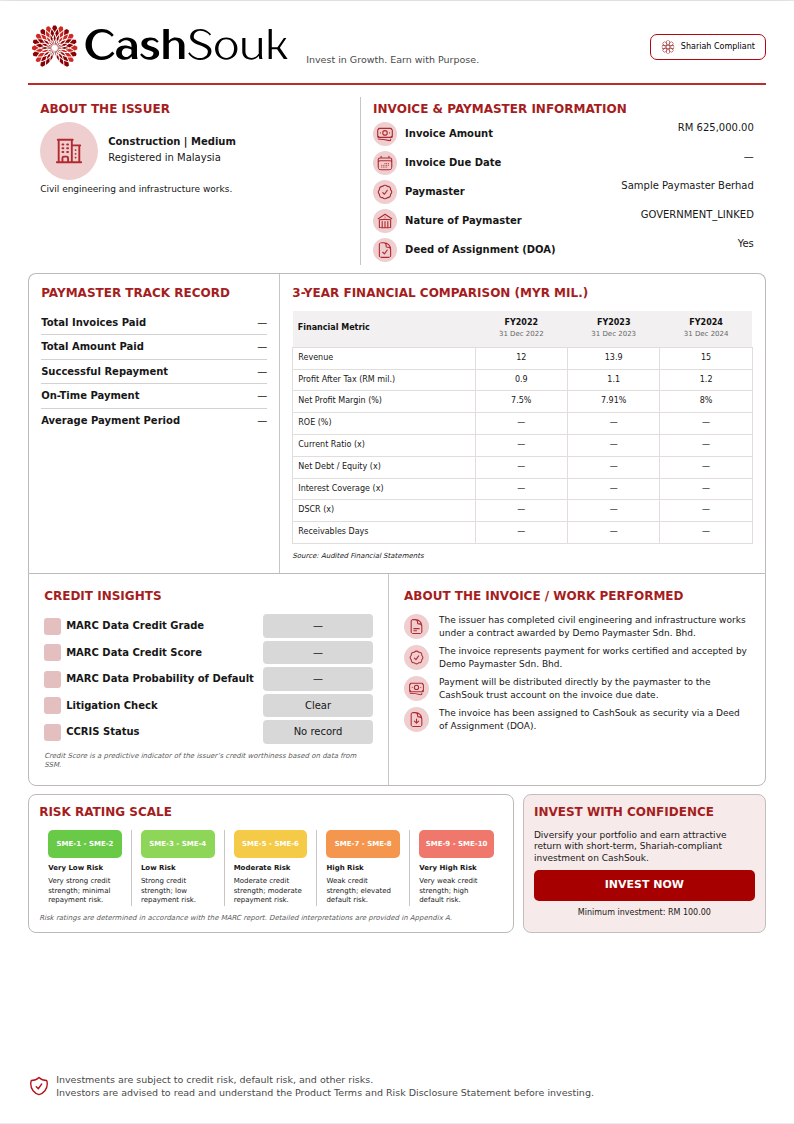
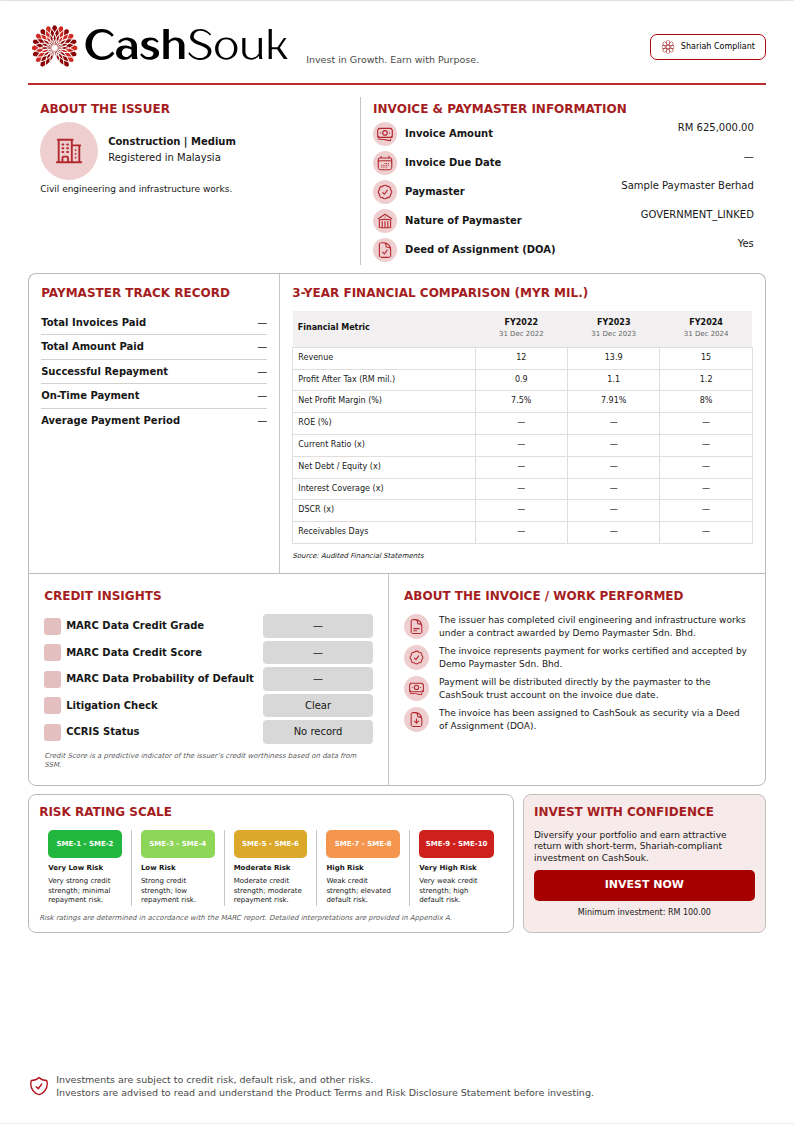
update color

Changed region(s): [[0.5139, 0.7162, 0.6348, 0.7785], [0.272, 0.7162, 0.3929, 0.7785], [0.0605, 0.7162, 0.1511, 0.7785]]

diff --git a/packages/types/src/marc-credit-grade.ts b/packages/types/src/marc-credit-grade.ts
@@ -37,7 +37,8 @@ export const MARC_SME_BANDS = [
     compactRangeLabel: "SME-1–2",
     label: "Very Low Risk",
     groupedExplanation: "Very strong credit strength; minimal repayment risk.",
-    color: "#69ca48",
+    // SME Very Low Risk uses PAS green for stronger distinction.
+    color: "#22b83f",
   },
   {
     key: "b",
@@ -55,7 +56,9 @@ export const MARC_SME_BANDS = [
     compactRangeLabel: "SME-5–6",
     label: "Moderate Risk",
     groupedExplanation: "Moderate credit strength; moderate repayment risk.",
-    color: "#f5ca47",
+    // Slightly stronger (darker) yellow than the previous Moderate Risk.
+    // Kept yellow-leaning to preserve the overall visual style with white text.
+    color: "#dca82a",
   },
   {
     key: "d",
@@ -73,7 +76,8 @@ export const MARC_SME_BANDS = [
     compactRangeLabel: "SME-9–10",
     label: "Very High Risk",
     groupedExplanation: "Very weak credit strength; high default risk.",
-    color: "#ef776c",
+    // Stronger/darker red than the previous Very High Risk.
+    color: "#ce201d",
   },
 ] as const;
 
@@ -205,7 +209,7 @@ export function marcBandForGrade(grade: string | null | undefined) {
 }
 
 export function marcGradeColor(grade: string | null | undefined): string {
-  return marcBandForGrade(grade)?.color ?? "#69ca48";
+  return marcBandForGrade(grade)?.color ?? "#22b83f";
 }
 
 export function marcGradeLabel(grade: string | null | undefined): string {

diff --git a/apps/api/src/modules/notes/prospectus/prospectus-marc-risk-v3-layout.test.ts b/apps/api/src/modules/notes/prospectus/prospectus-marc-risk-v3-layout.test.ts
@@ -75,11 +75,11 @@ describe("prospectus MARC risk rating V3 visual contract", () => {
   it("Page 2 reuses V3 grouped scale CSS and copy", () => {
     expect(scale.match(/class="grade marc /g)?.length).toBe(5);
     expect(PROSPECTUS_DOCUMENT_CSS).toContain(".risk-scale{display:grid;grid-template-columns:repeat(5,1fr)");
-    expect(PROSPECTUS_DOCUMENT_CSS).toContain(".grade.marc.a{background:#69ca48}");
+    expect(PROSPECTUS_DOCUMENT_CSS).toContain(".grade.marc.a{background:#22b83f}");
     expect(PROSPECTUS_DOCUMENT_CSS).toContain(".grade.marc.b{background:#8ed657}");
-    expect(PROSPECTUS_DOCUMENT_CSS).toContain(".grade.marc.c{background:#f5ca47}");
+    expect(PROSPECTUS_DOCUMENT_CSS).toContain(".grade.marc.c{background:#dca82a}");
     expect(PROSPECTUS_DOCUMENT_CSS).toContain(".grade.marc.d{background:#f5964f}");
-    expect(PROSPECTUS_DOCUMENT_CSS).toContain(".grade.marc.e{background:#ef776c}");
+    expect(PROSPECTUS_DOCUMENT_CSS).toContain(".grade.marc.e{background:#ce201d}");
     expect(PROSPECTUS_DOCUMENT_CSS).toMatch(/\.grade\.marc\{[\s\S]*min-width:61px/);
     expect(PROSPECTUS_DOCUMENT_CSS).toMatch(/\.grade\.marc\{[\s\S]*height:28px/);
     expect(PROSPECTUS_DOCUMENT_CSS).toMatch(/\.grade\.marc\{[\s\S]*padding:0 5px/);

diff --git a/apps/api/src/modules/notes/prospectus/prospectus-document-styles.ts b/apps/api/src/modules/notes/prospectus/prospectus-document-styles.ts
@@ -328,11 +328,11 @@ table{width:100%;border-collapse:collapse;font-size:8px}th{background:var(--pros
   overflow:visible;
   text-overflow:clip;
 }
-.grade.marc.a{background:#69ca48}
+.grade.marc.a{background:#22b83f}
 .grade.marc.b{background:#8ed657}
-.grade.marc.c{background:#f5ca47}
+.grade.marc.c{background:#dca82a}
 .grade.marc.d{background:#f5964f}
-.grade.marc.e{background:#ef776c}
+.grade.marc.e{background:#ce201d}
 .credit-insights-note{display:block;font-size:7px;margin-top:8px;font-style:italic;line-height:1.3;color:var(--prospectus-muted)}
 .ratings div{display:grid;grid-template-columns:1fr 110px;gap:8px;align-items:center;margin:5px 0;position:relative}.ratings div:before{content:"";width:17px;height:17px;background:#e3bfc0;border-radius:3px;position:absolute;left:0}.ratings span{font-weight:700;padding-left:22px}.ratings b{background:#d8d8d8;text-align:center;padding:5px;border-radius:4px;font-weight:500}.ratings .good{color:#21a43b}
 .work-list p{display:flex;align-items:flex-start;gap:10px;font-size:9px;margin-bottom:9px}.work-list .icon{flex:none;width:var(--prospectus-icon-work);height:var(--prospectus-icon-work);padding:4px;box-sizing:border-box}

diff --git a/t/styles.css b/t/styles.css
@@ -89,11 +89,11 @@ footer{margin-top:auto;display:flex;align-items:center;gap:8px;padding-top:14px;
   font-size:7px;
   white-space:nowrap;
 }
-.grade.marc.a{background:#69ca48}
+.grade.marc.a{background:#22b83f}
 .grade.marc.b{background:#8ed657}
-.grade.marc.c{background:#f5ca47}
+.grade.marc.c{background:#dca82a}
 .grade.marc.d{background:#f5964f}
-.grade.marc.e{background:#ef776c}
+.grade.marc.e{background:#ce201d}
 
 /* Date labels inside table headers. */
 table th small{
